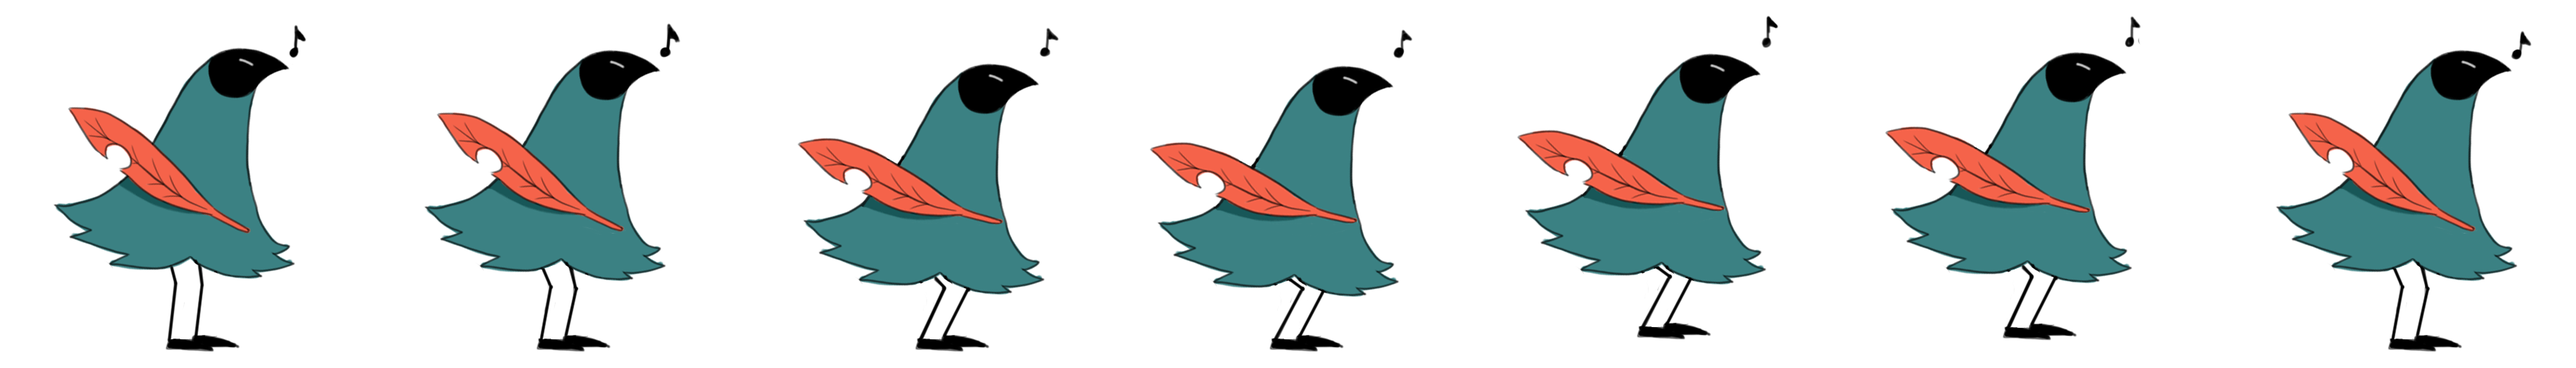
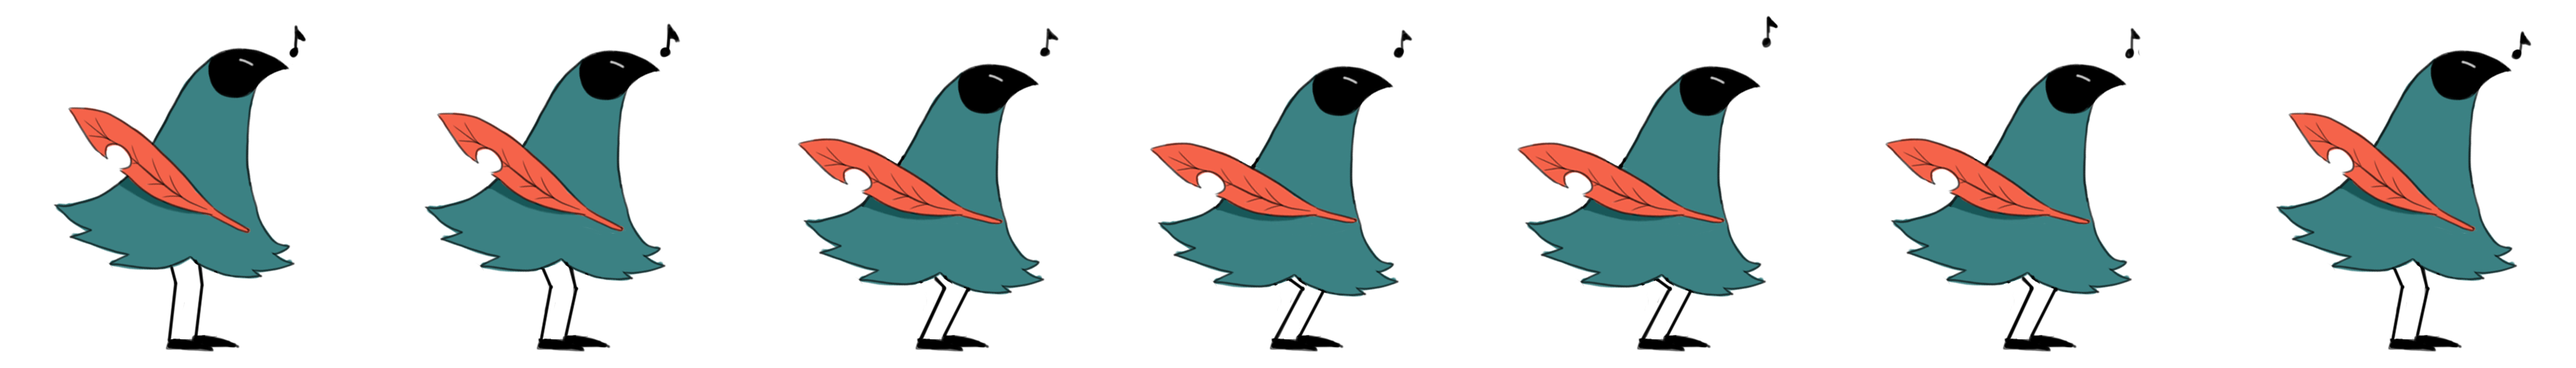
player update and idle anim update

Changed region(s): [[0.5625, 0.125, 0.6875, 0.9688], [0.7188, 0.3125, 0.8438, 0.9688], [0.7812, 0.0938, 0.8438, 0.3125]]

diff --git a/RoastedToasted/Assets/Scripts/Player.cs b/RoastedToasted/Assets/Scripts/Player.cs
@@ -24,6 +24,11 @@ public class Player : MonoBehaviour
     Rigidbody2D rb;
     int orgHealth;
     bool isRunning;
+    bool isMovingLeft = false;
+    bool isMovingRight = false;
+
+    bool canMoveLeft = true;
+    bool canMoveRight = true;
 
     void Start()
     {
@@ -49,23 +54,29 @@ public class Player : MonoBehaviour
             isRunning = true;
             speedRate = runSpeed;
         }
-        else if (Input.GetKey(KeyCode.A) || Input.GetKey(KeyCode.D))
+        else if ((Input.GetKey(KeyCode.A) || Input.GetKey(KeyCode.D)))
             speedRate = walkSpeed;
 
 
         animator.SetFloat("Speed", speedRate);
 
 
-        if (Input.GetKey(KeyCode.D))
+        if (Input.GetKey(KeyCode.D) && canMoveRight)
         {
+            isMovingRight = true;
             this.gameObject.GetComponent<SpriteRenderer>().flipX = false;
             this.transform.position = new Vector2(curPos.x + speedRate, curPos.y);
         }
-        if (Input.GetKey(KeyCode.A))
+        else
+            isMovingRight = false;
+        if (Input.GetKey(KeyCode.A) && canMoveLeft)
         {
+            isMovingLeft = true;
             this.gameObject.GetComponent<SpriteRenderer>().flipX = true;
             this.transform.position = new Vector2(curPos.x - speedRate, curPos.y);
         }
+        else
+            isMovingLeft = false;
 
         float check2 = 0;
         float check = rb.velocity.y;
@@ -90,7 +101,7 @@ public class Player : MonoBehaviour
             animator.SetBool("fallingDown", false);
             check = 0;
         }
-        Debug.Log(health);
+        //Debug.Log(health);
 
     }
 
@@ -111,7 +122,8 @@ public class Player : MonoBehaviour
     void Respawn()
     {
         health = orgHealth;
-
+        canMoveLeft = true;
+        canMoveRight = true;
         this.transform.position = orgPos;
     }
 
@@ -126,6 +138,22 @@ public class Player : MonoBehaviour
 
         if (collision.gameObject.tag == "gameOver")
             SceneManager.LoadScene("lose");
-        
+
+        if (collision.gameObject.tag == "wall" && isMovingRight)
+            canMoveRight = false;
+
+        else if (collision.gameObject.tag == "wall" && isMovingLeft)
+            canMoveLeft = false;
+
+
+    }
+
+    private void OnCollisionExit(Collision collision)
+    {
+        if (collision.gameObject.tag == "wall" && !canMoveLeft)
+            canMoveLeft = true;
+
+        if (collision.gameObject.tag == "wall" && !canMoveRight)
+            canMoveRight = true;
     }
 }
